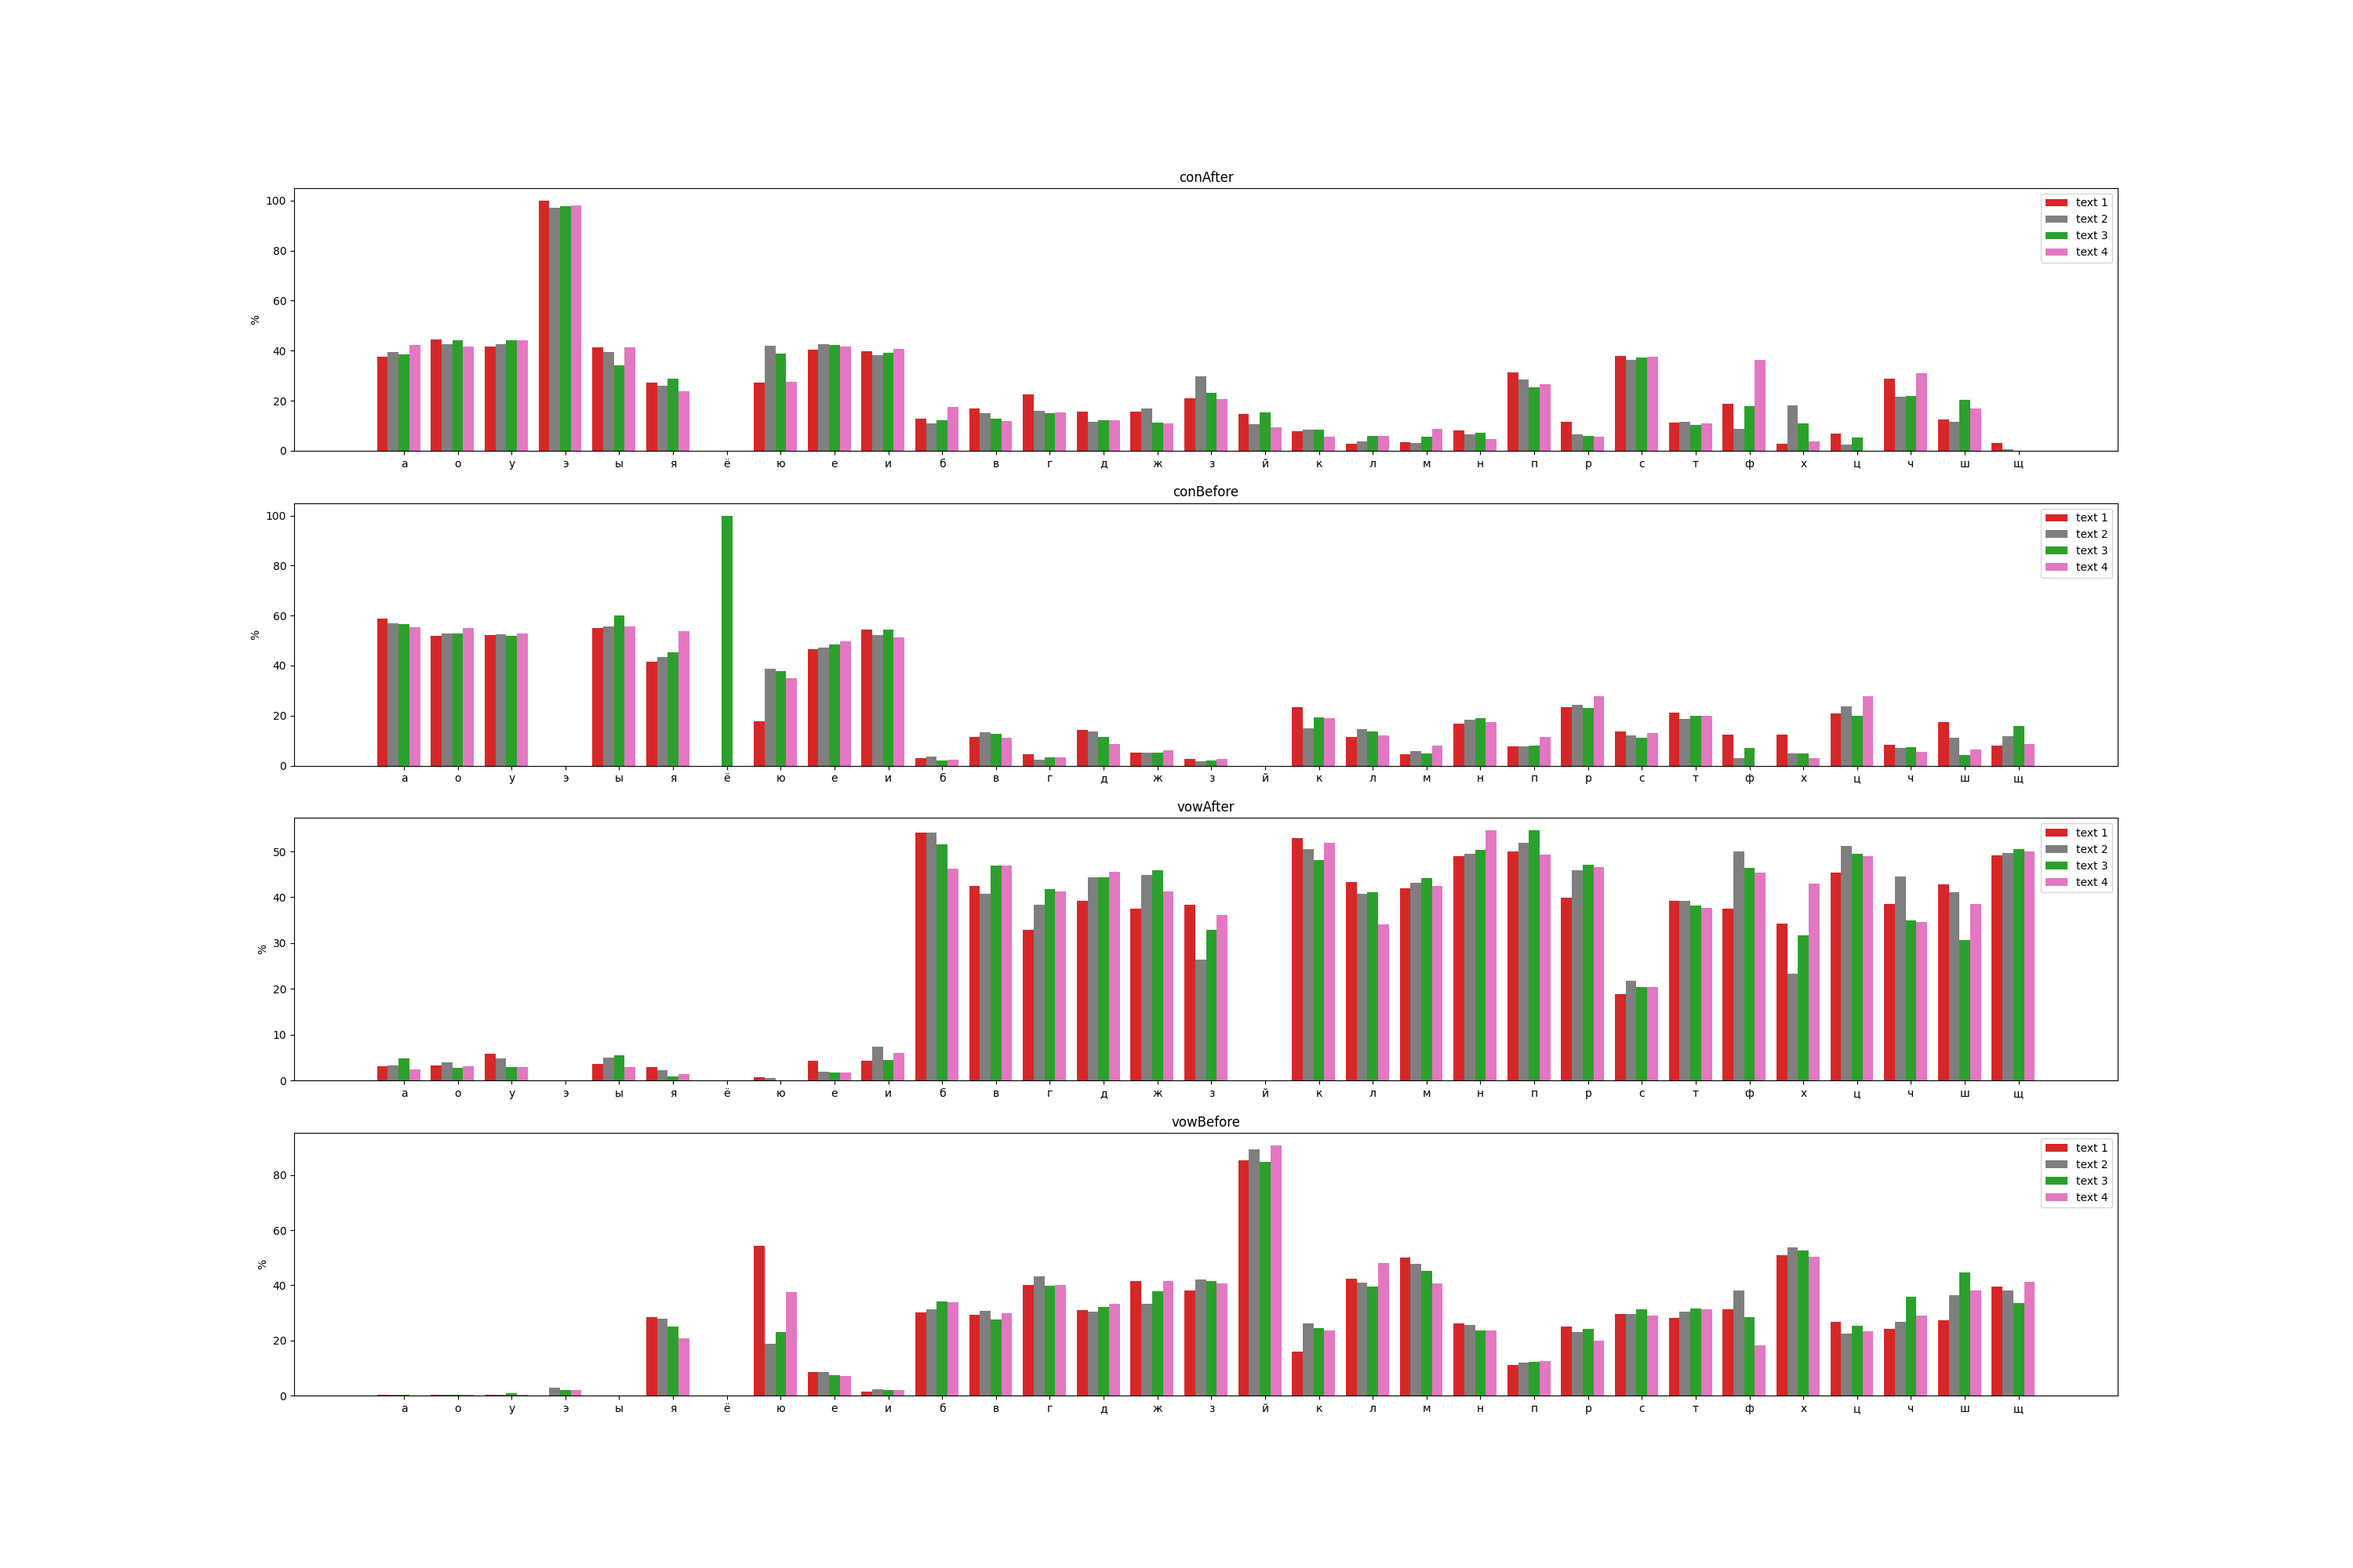
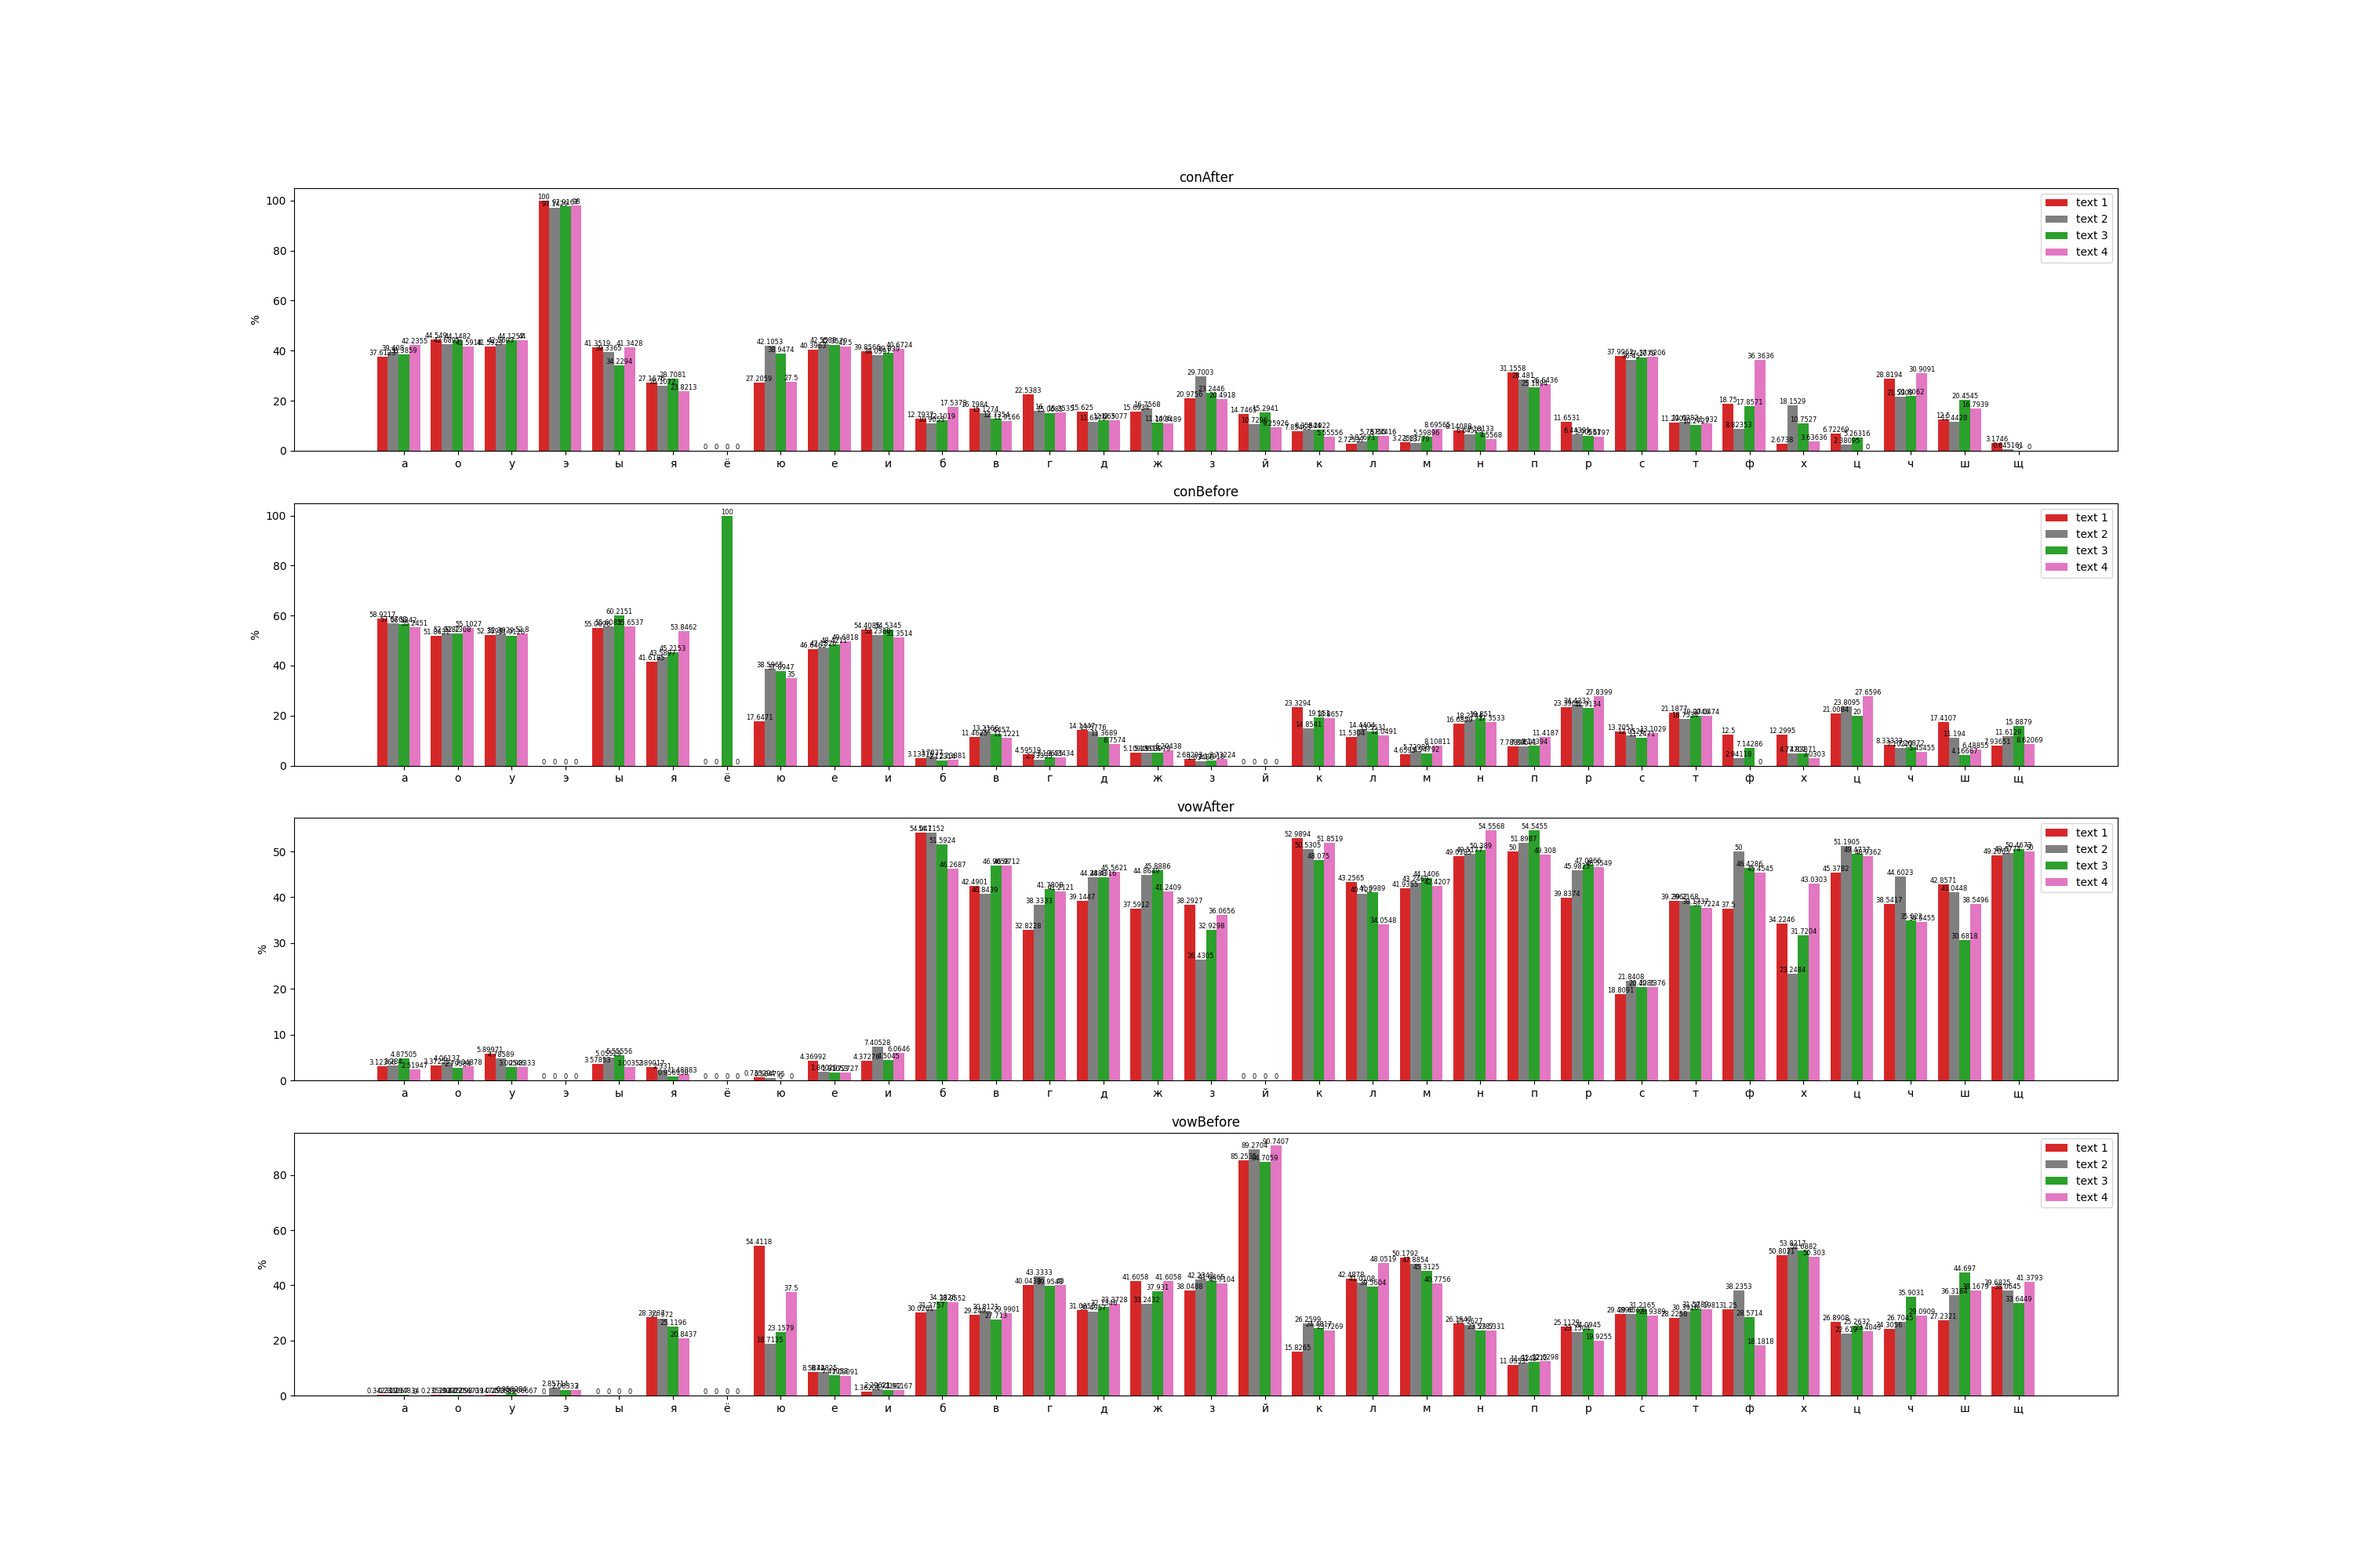
done with 9 in python

diff --git a/analytics/app/topWordsPlot.py b/analytics/app/topWordsPlot.py
@@ -1,0 +1,33 @@
+import matplotlib.pyplot as plt
+import numpy as np
+
+def topWordsPlot(wordsCount: list[dict[str | int, float]], colors, top_n: int = 50):
+    """Plot top words for each text as a horizontal row of vertical bar charts."""
+    if len(wordsCount) == 0:
+        return plt.figure()
+
+    fig, axes = plt.subplots(1, len(wordsCount), figsize=(6*len(wordsCount), top_n/2), squeeze=False)
+
+    for i, count in enumerate(wordsCount):
+        ax = axes[0][i]
+
+        if not count:
+            ax.axis('off')
+            ax.set_title(f'текст {i+1} — нет данных')
+            continue
+
+        top_items = sorted(count.items(), key=lambda item: item[1], reverse=True)[:top_n]
+        labels = [word for word, _ in top_items]
+        values = [freq for _, freq in top_items]
+        y = np.arange(len(labels))
+
+        bars = ax.barh(y, values, color=colors[i % len(colors)])
+        ax.set_yticks(y)
+        ax.set_yticklabels(labels)
+        ax.invert_yaxis()
+        ax.set_xlabel('кол-во вхождений')
+        ax.set_title(f'текст {i+1}: топ {top_n} слов')
+        ax.bar_label(bars, padding=2, fontsize=8)
+        ax.margins(y=0.05)
+
+    return fig

diff --git a/analytics/main.py b/analytics/main.py
@@ -10,6 +10,7 @@ from app.vowConAlterPlot import *
 from app.conVowEndStartPlot import *
 from app.threeInARowPlot import *
 from app.twoVowsConsPairsPlot import *
+from app.topWordsPlot import *
 
 def main() -> None:
     files = []
@@ -49,9 +50,11 @@ def main() -> None:
     threeInARowFig = threeVowsConsInARowPlot([f["threeVowsOrConsInARow"] for f in files], colors)
     threeInARowFig.savefig(plotsPath + "threeVowsOrConsInARow.png")
 
-    print([f["twoVowsConsNeighbors"] for f in files])
     twoVowsConsPairsFig = twoVowsConsPairsPlot([f["twoVowsConsNeighbors"] for f in files], colors)
     twoVowsConsPairsFig.savefig(plotsPath + "twoVowsConsPairs.png")
+
+    topWordsFig = topWordsPlot([f["wordsCount"] for f in files], colors)
+    topWordsFig.savefig(plotsPath + "topWords.png")
 
 if __name__ == "__main__":
     main()

diff --git a/analytics/app/percentagePlotter.py b/analytics/app/percentagePlotter.py
@@ -37,13 +37,15 @@ class PercentagePlotter():
         for i, v in enumerate(values):
             offset = -groupWidth/2 + i/m*groupWidth
             if type == PlotType.BAR:
-                ax.bar(x + offset, v, width, label=f'text {i+1}', color=self.colors[i%len(self.colors)])
+                bars = ax.bar(x + offset, v, width, label=f'text {i+1}', color=self.colors[i%len(self.colors)])
+                ax.bar_label(bars, padding=0, fontsize=6)
             else:
                 ax.plot(x, v, label=f'text {i+1}', color=self.colors[i%len(self.colors)])
 
         ax.set_ylabel('%')
         ax.set_xticks(x)
         ax.set_xticklabels(map(str, labels))
+
         handles, labels = ax.get_legend_handles_labels()
         seen = {}
         for h, l in zip(handles, labels):

diff --git a/analytics/app/conVowEndStartPlot.py b/analytics/app/conVowEndStartPlot.py
@@ -4,7 +4,7 @@ from app.percentagePlotter import PercentagePlotter, PlotType
 
 def conVowEndStartPlot(conVowEndStartCount: list[dict[str | int, float]], colors):
     n = 1
-    charFig, (
+    fig, (
         ax
     ) = plt.subplots(n, 1, figsize=(30, 5*n))
 
@@ -13,4 +13,4 @@ def conVowEndStartPlot(conVowEndStartCount: list[dict[str | int, float]], colors
     plotter.plot(ax, conVowEndStartCount, PlotType.BAR, ["conCon", "conVow", "vowCon", "vowVow"])
     ax.set_title("пары слов, начинающиеся/заканчивающиеся на гласную-согласную")
 
-    return charFig
+    return fig

diff --git a/analytics/app/combinationPlot.py b/analytics/app/combinationPlot.py
@@ -5,9 +5,9 @@ import json
 
 assetsPath = "assets/"
 
-def combinationsPlot(combinationsCount: list[dict[str | int, int]], colors):
+def combinationsPlot(combinationsCount: list[dict[str | int, float]], colors):
     n = 1
-    charFig, (
+    fig, (
         ax
     ) = plt.subplots(n, 1, figsize=(50, 5*n))
 
@@ -19,4 +19,4 @@ def combinationsPlot(combinationsCount: list[dict[str | int, int]], colors):
         plotter.plot(ax, combinationsCount, PlotType.BAR, combinations)
         ax.set_title("комбинации букв")
 
-    return charFig
+    return fig

diff --git a/analytics/app/vowConAlterPlot.py b/analytics/app/vowConAlterPlot.py
@@ -9,7 +9,7 @@ def vowConAlterPlot(conVowAltCount: list[dict[str, dict[str, int]]], colors):
     alterAxes: dict[str, Axes] = {}
 
     n = 4
-    charFig, (
+    fig, (
         alterAxes["conAfter"],
         alterAxes["conBefore"],
         alterAxes["vowAfter"],
@@ -33,4 +33,4 @@ def vowConAlterPlot(conVowAltCount: list[dict[str, dict[str, int]]], colors):
             plotter.plot(ax, newCount, PlotType.BAR, charTypes["vows"] + charTypes["cons"], countPercents=False)
             ax.set_title(typeAndPos)
 
-    return charFig
+    return fig

diff --git a/analytics/app/twoVowsConsPairsPlot.py b/analytics/app/twoVowsConsPairsPlot.py
@@ -5,7 +5,7 @@ import numpy as np
 
 def twoVowsConsPairsPlot(twoVowsConsNeighbors: list[int], colors):
     n = 1
-    charFig, (
+    fig, (
         ax
     ) = plt.subplots(n, 1, figsize=(10, 5*n))
 
@@ -15,4 +15,4 @@ def twoVowsConsPairsPlot(twoVowsConsNeighbors: list[int], colors):
     ax.set_title("пары слов, первое из которых заканчивается на 2 гласные, а второе начинается с 2 согласных")
     ax.set_ylabel('кол-во')
 
-    return charFig
+    return fig

diff --git a/analytics/app/threeInARowPlot.py b/analytics/app/threeInARowPlot.py
@@ -4,7 +4,7 @@ from app.percentagePlotter import PercentagePlotter, PlotType
 
 def threeVowsConsInARowPlot(threeInARow: list[dict[str | int, float]], colors):
     n = 1
-    charFig, (
+    fig, (
         ax
     ) = plt.subplots(n, 1, figsize=(10, 5*n))
 
@@ -13,4 +13,4 @@ def threeVowsConsInARowPlot(threeInARow: list[dict[str | int, float]], colors):
     plotter.plot(ax, threeInARow, PlotType.BAR, ["cons", "vows"])
     ax.set_title("три гласных/согласных подряд")
 
-    return charFig
+    return fig

diff --git a/analytics/app/lenPlots.py b/analytics/app/lenPlots.py
@@ -8,7 +8,7 @@ def lensPlot(wordLenCount: list[list[tuple[int, int]]], sentenceLenCount: list[l
     lensAxes: dict[str, Axes] = {}
 
     n = 2
-    charFig, (
+    fig, (
         lensAxes["word length"],
         lensAxes["sentence length"],
     ) = plt.subplots(n, 1, figsize=(30, 5*n))
@@ -31,4 +31,4 @@ def lensPlot(wordLenCount: list[list[tuple[int, int]]], sentenceLenCount: list[l
         plotter.plot(ax, newCount, PlotType.PLOT, list(range(mx)))
         ax.set_title(key)
 
-    return charFig
+    return fig

diff --git a/analytics/app/charsPlot.py b/analytics/app/charsPlot.py
@@ -9,7 +9,7 @@ def charsPlot(charCounts: list[dict[str | int, float]], colors):
     charAxes: dict[str, Axes] = {}
 
     n = 8
-    charFig, (
+    fig, (
         charAxes["letters"],
         charAxes["vows"],
         charAxes["cons"],
@@ -30,4 +30,4 @@ def charsPlot(charCounts: list[dict[str | int, float]], colors):
             plotter.plot(ax, charCounts, PlotType.BAR, charTypes[key])
             ax.set_title(key)
 
-    return charFig
+    return fig

diff --git a/analytics/app/prepsPlot.py b/analytics/app/prepsPlot.py
@@ -7,7 +7,7 @@ assetsPath = "assets/"
 
 def prepsPlot(wordsCount: list[dict[str | int, float]], colors):
     n = 1
-    charFig, (
+    fig, (
         ax
     ) = plt.subplots(n, 1, figsize=(300, 5*n))
 
@@ -19,4 +19,4 @@ def prepsPlot(wordsCount: list[dict[str | int, float]], colors):
         plotter.plot(ax, wordsCount, PlotType.BAR, preps)
         ax.set_title("предлоги и союзы")
 
-    return charFig
+    return fig

diff --git a/TODO.md b/TODO.md
@@ -19,6 +19,6 @@ Python статистика
     [X] 6
     [X] 7
     [X] 8
-    [ ] 9
+    [X] 9
 
 [ ] Презентация
